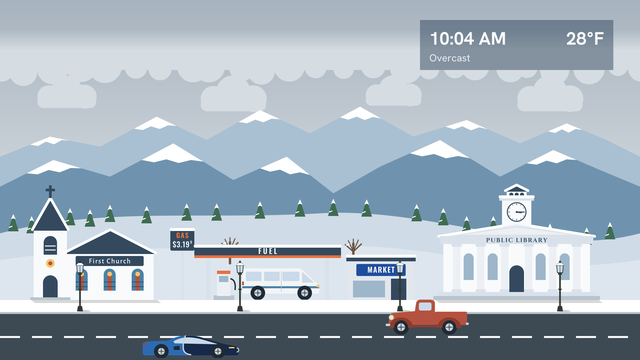
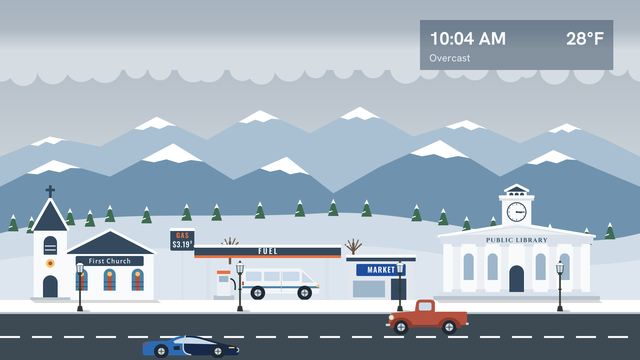
Hide the sun and the separate clouds when the sky is overcast
At the overcast cloud level (85 percent cloud cover or more, or an
overcast, rain, drizzle, snow, or thunderstorm weather code), the sun is
hidden and the clouds image has only the gray layer across the top. The
moon is still drawn dim at night. The other cloud levels are unchanged.

Claude-Session: https://claude.ai/code/session_01F1XyeN8JkGTXHxAsjkg3QR

diff --git a/tools/riverside/previews.py b/tools/riverside/previews.py
@@ -103,7 +103,8 @@ def preview(town, layers, images, pal, season, hour, temp, cond, section, fx=Non
     the (x, y) of an airplane, or None. pets is a list of (animal, x), where
     animal is an entry of town["pets"]. clouds is a cloud level from
     scenery.CLOUD_LEVELS; with "overcast", the sky is gray, the stars are
-    hidden, and the sun or moon is dim, like applyScene() in MainScene.brs."""
+    hidden, the sun is hidden, and the moon is dim, like applyScene() in
+    MainScene.brs."""
     overcast = clouds == "overcast"
     p = season_palette(pal, season)
     sky_im = Image.new("RGBA", (1920, 1080))
@@ -117,7 +118,8 @@ def preview(town, layers, images, pal, season, hour, temp, cond, section, fx=Non
     body_im = Image.open(os.path.join(images, body)).convert("RGBA")
     if overcast:
         body_im.putalpha(body_im.getchannel("A").point(lambda v: v * 0.35))
-    sky_im.alpha_composite(body_im, pos)
+    if not (overcast and pal != "night"):
+        sky_im.alpha_composite(body_im, pos)
     im = Image.open(os.path.join(images, f"sky_{'overcast_' if overcast else ''}{pal}.png")).convert("RGBA").resize((1920, 1080))
     im.alpha_composite(sky_im)
     # The far and near mountains change tiles part way along the street, so

diff --git a/tools/riverside/scenery.py b/tools/riverside/scenery.py
@@ -70,9 +70,8 @@ def clouds(p, season, level="few"):
         spots = ((80, 200, 1.2), (330, 290, 0.9), (560, 190, 1.35), (820, 260, 1.1), (1050, 170, 1.2),
                  (1280, 280, 1.0), (1500, 190, 1.3), (1730, 270, 1.05), (1900, 175, 0.8))
         return wrap("".join(puff(x, y, s, c) for x, y, s in spots))
-    # Overcast: the gray layer, with some lower gray clouds under it
-    lower = ((200, 290, 0.9), (700, 296, 1.0), (1180, 285, 0.85), (1650, 296, 1.0))
-    return wrap(deck(p) + "".join(puff(x, y, s, p["cloudGray"]) for x, y, s in lower))
+    # Overcast: only the gray layer, with no separate clouds under it
+    return wrap(deck(p))
 
 def snow_caps(points, t, fill, min_rise=30):
     """Snow on every peak of a mountain outline. t is how far down each slope the

diff --git a/AGENTS.md b/AGENTS.md
@@ -48,7 +48,7 @@ These apply to code, comments, commit messages, README.md, and this file.
 - The top of the river must start below the top edge of the hills, or the water shows above the hills, in front of the mountains.
 - With `extras.table_mountain` on, the center far mountains are shaped like Table Mountain seen from Cape Town, based on a silhouette reference from the owner: Devil's Peak on the left, the flat top with steep cliffs, a dip, and Lion's Head on the right. All points on the flat top (`TABLE_TOP` in the generator) must have the same y value, so `snow_caps()` does not treat them as a peak; `far()` draws a flat snow band there in winter instead. `snow_caps()` skips peaks that rise less than `min_rise` (30 pixels) above a neighbor point, so small bumps such as Devil's Peak and Lion's Head get no snow cap.
 - The sky is an 8 pixel wide gradient stretched to 1920 pixels. Keep it narrow.
-- The clouds layer has one image for each level in `CLOUD_LEVELS` in `tools/riverside/scenery.py` (`few`, `scattered`, `broken`, `overcast`), named `clouds_<level>_<period>.png`. `cloudLevel()` in `MainScene.brs` picks the level from `cloud_cover` (a percentage from Open-Meteo, requested in `WeatherTask.brs`), and the weather code sets the lowest level so the sky matches the panel text. Overcast also uses the gray sky `sky_overcast_<period>.png` (the `skyGray` and `horizonGray` colors in `P`), hides the stars, and dims the sun and moon. `preview()` in `previews.py` copies this with its `clouds` option. Clouds that cross x=0 or x=1920 are drawn with `wrap()`, which draws the whole level three times, so overlapping clouds keep the same order on both sides of the tile edge. "few" is the original three clouds and is used before the first weather request finishes.
+- The clouds layer has one image for each level in `CLOUD_LEVELS` in `tools/riverside/scenery.py` (`few`, `scattered`, `broken`, `overcast`), named `clouds_<level>_<period>.png`. `cloudLevel()` in `MainScene.brs` picks the level from `cloud_cover` (a percentage from Open-Meteo, requested in `WeatherTask.brs`), and the weather code sets the lowest level so the sky matches the panel text. Overcast also uses the gray sky `sky_overcast_<period>.png` (the `skyGray` and `horizonGray` colors in `P`), has no separate clouds under the gray layer, hides the stars and the sun, and dims the moon. `preview()` in `previews.py` copies this with its `clouds` option. Clouds that cross x=0 or x=1920 are drawn with `wrap()`, which draws the whole level three times, so overlapping clouds keep the same order on both sides of the tile edge. "few" is the original three clouds and is used before the first weather request finishes.
 - The town crop starts at y=550 so the church cross and the courthouse clock tower fit. If anything in the town is drawn above y=550, it is cut off.
 - Store sign text is drawn with `text()` in `tools/riverside/art.py`, which converts letters to shapes using the fonts in `tools/fonts`. It works with variable fonts and with fonts that have one weight. Do not use SVG `<text>` elements, because they depend on the fonts installed on the computer that runs the generator. To add a font, put the `.ttf` file and its license in `tools/fonts` and add it to `FONTS` and to the font list in README.md. `check_text()` reports letters a font cannot draw, and `config.py` uses it to stop the build with a clear message. Only use fonts with a license that allows this, such as the SIL Open Font License. Write non-ASCII letters as Python escapes (for example, `"Luke\u2019s"`).
 - The generator writes the README preview images in `docs/` when it is run with `--docs docs`. They are committed and show the sample town. Run it after any art change so they stay current. `CARS` in `tools/riverside/previews.py` copies `allCars` in `MainScene.brs` and must be kept the same. The preview panel copies the `info` group in `components/MainScene.xml`.

diff --git a/README.md b/README.md
@@ -60,7 +60,7 @@ These images are drawn by `tools/generate_images.py` from the same artwork the s
 
   The dates are close to the equinoxes and solstices, which move by a day or so from year to year. In the southern hemisphere, the seasons are the other way around. Pine trees stay green all year. There is one river, and in every season but winter, eight kayaks in different colors sit on the grass on both sides of it.
 - Weather effects from the current weather:
-  - Clouds: the number of clouds follows the cloud cover from the weather, in percent. Below 25 percent there are a few clouds, from 25 percent there are more, from 50 percent there are many larger clouds, and from 85 percent the sky is overcast: a gray layer of cloud covers the top of the sky, the sky is gray, the stars are hidden, and the sun and moon are dim. The weather code also sets the fewest clouds that can show, so the sky matches the text in the panel: "Partly cloudy" shows at least the second level, fog and showers at least the third, and "Overcast", drizzle, rain, snow, and thunderstorms show an overcast sky.
+  - Clouds: the number of clouds follows the cloud cover from the weather, in percent. Below 25 percent there are a few clouds, from 25 percent there are more, from 50 percent there are many larger clouds, and from 85 percent the sky is overcast: a gray layer of cloud covers the top of the sky with no separate clouds under it, the sky is gray, the stars and the sun are hidden, and the moon is dim. The weather code also sets the fewest clouds that can show, so the sky matches the text in the panel: "Partly cloudy" shows at least the second level, fog and showers at least the third, and "Overcast", drizzle, rain, snow, and thunderstorms show an overcast sky.
   - Rain and drizzle: falling rain.
   - Snow: falling snow. While snow is falling, the ground shows snow in any season.
   - Fog: a fog layer over the scene.
